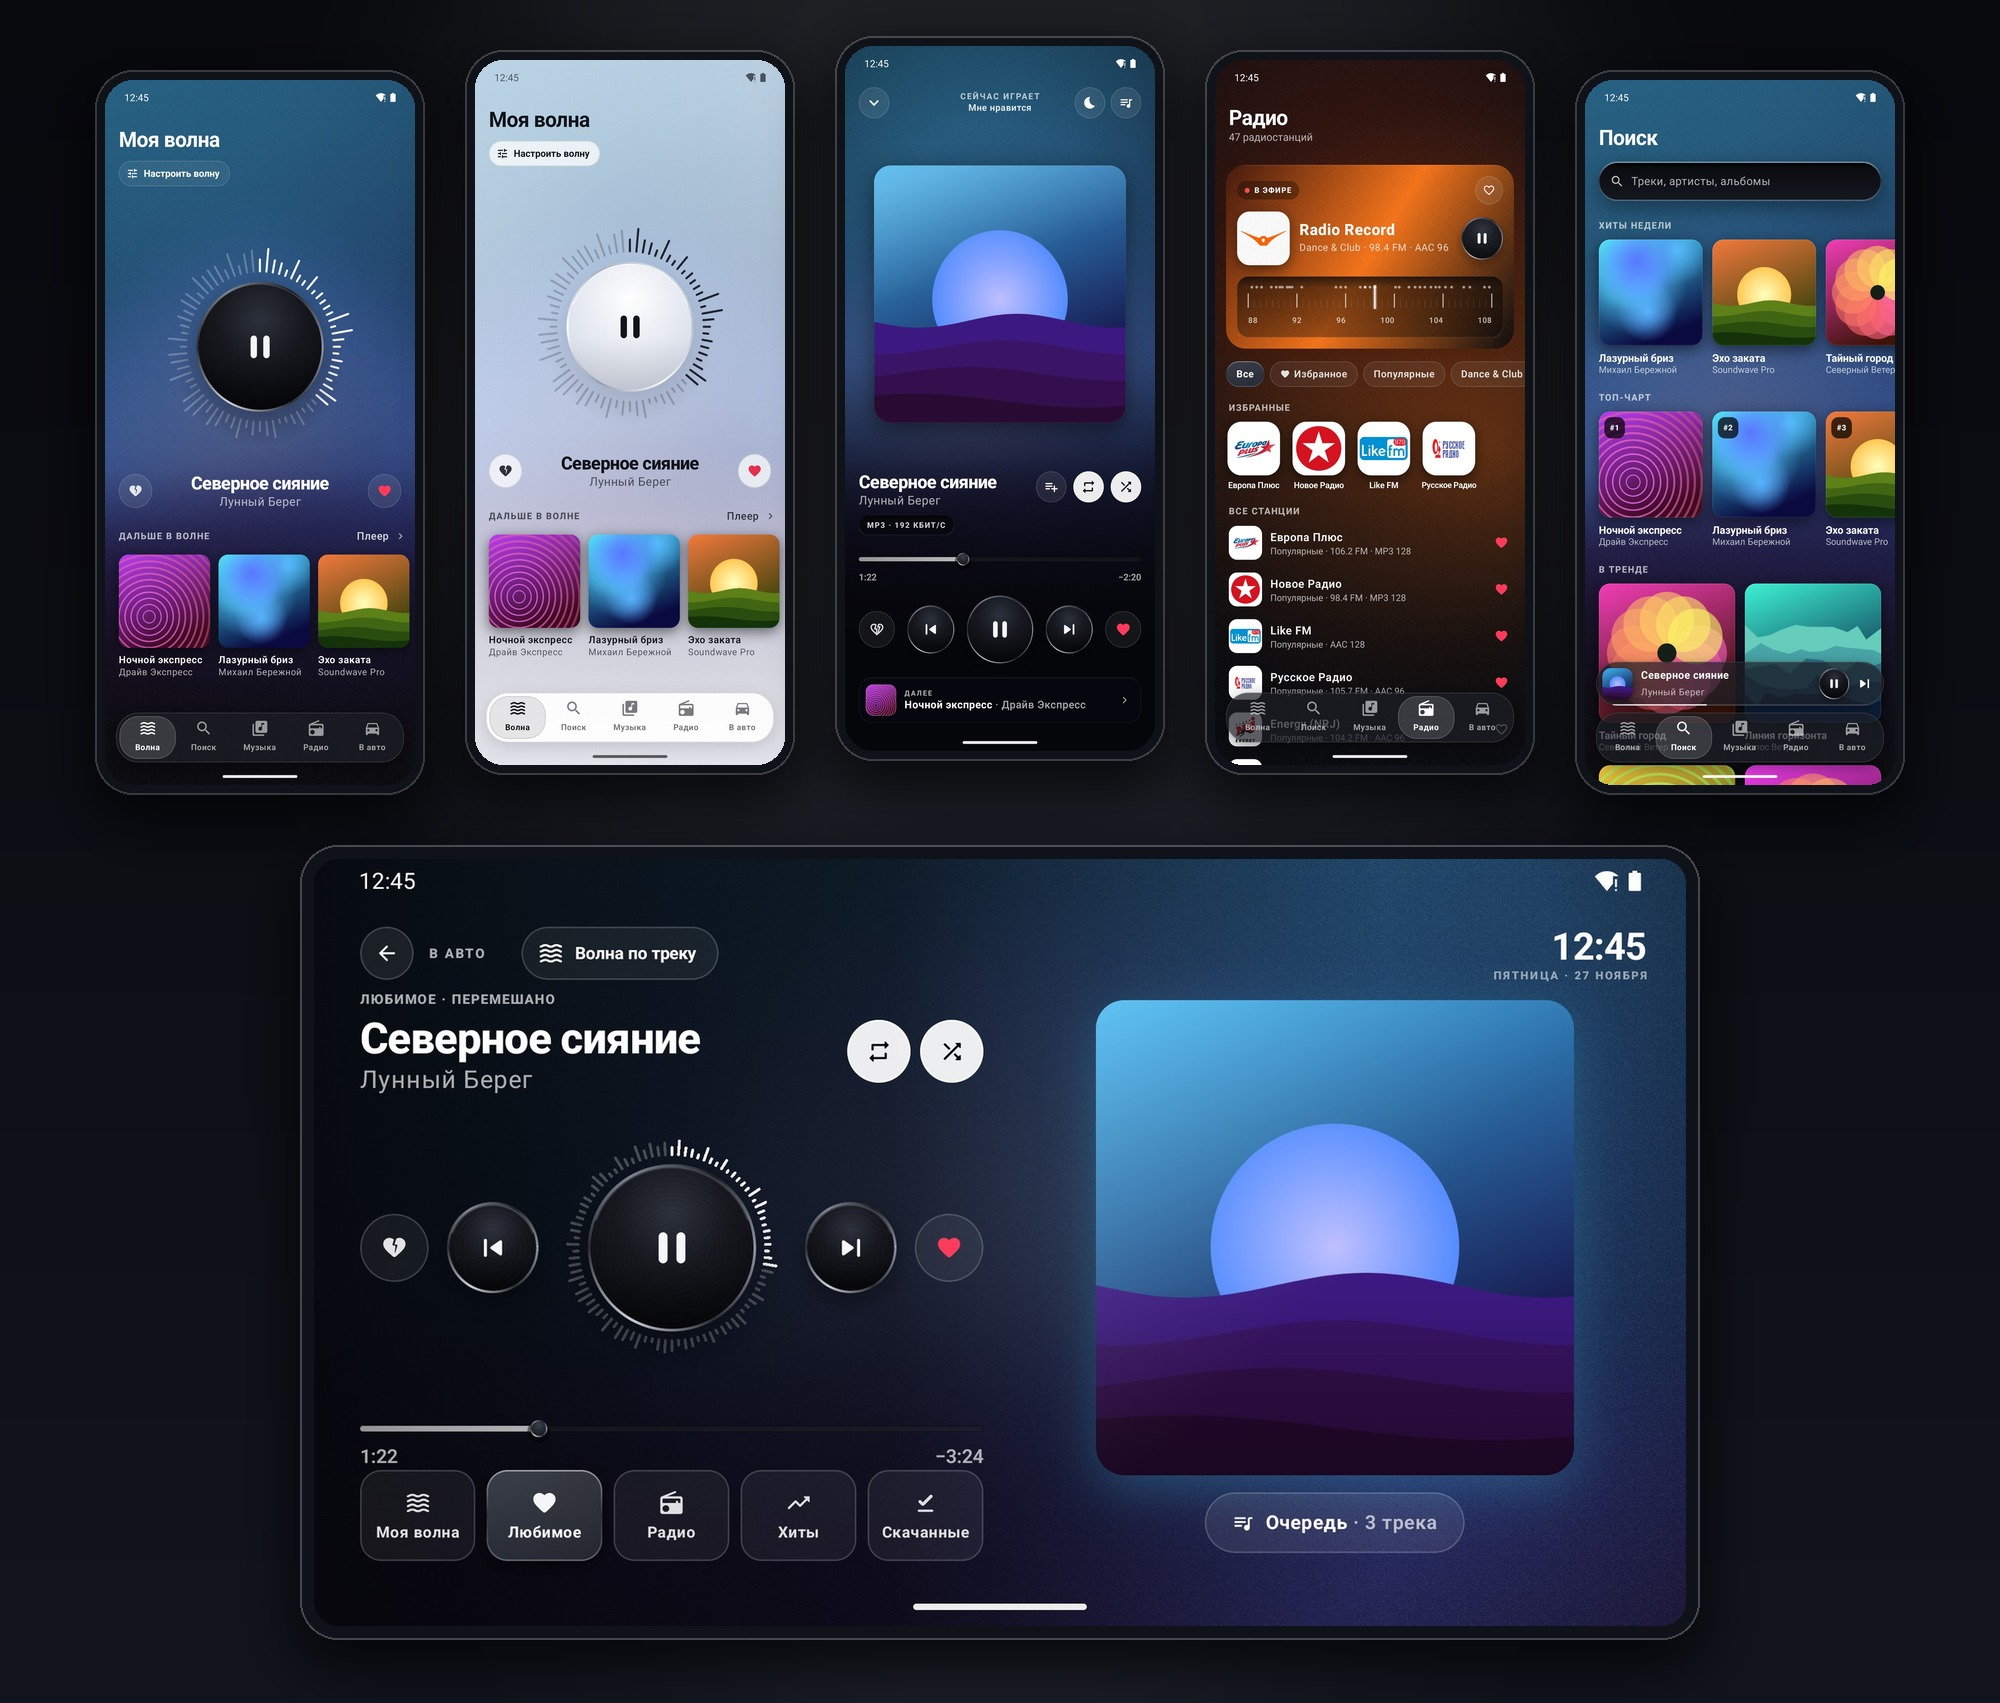
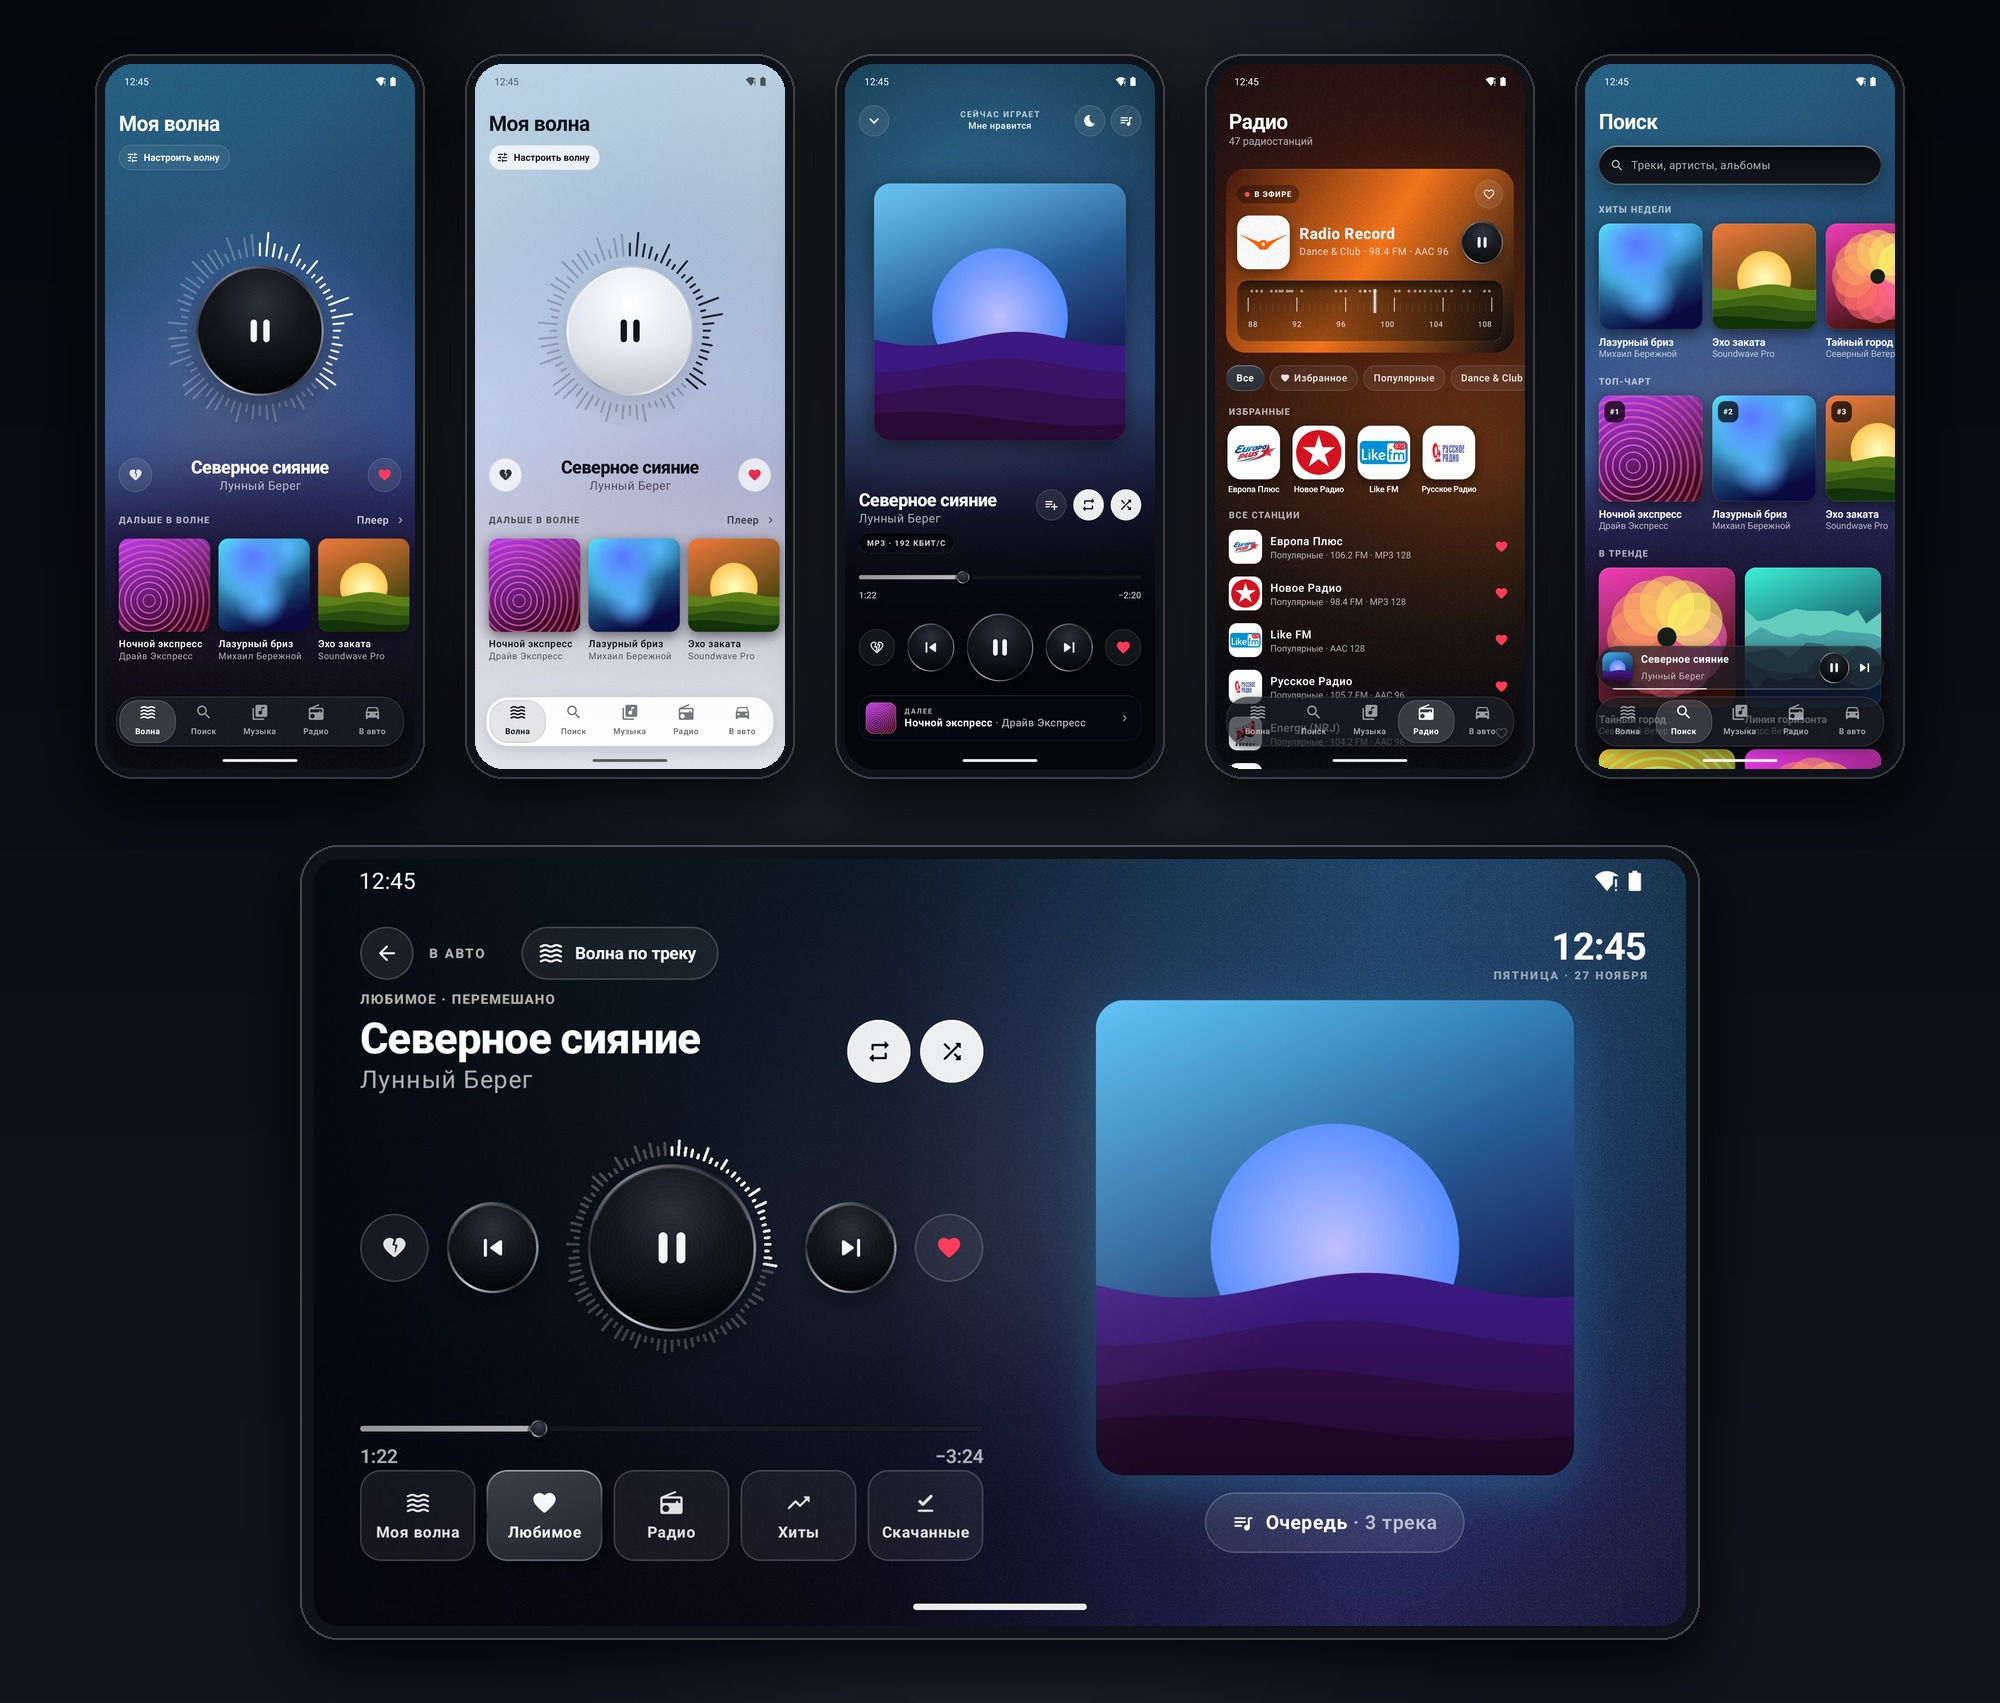
docs: align showcase phones and add Car Mode switcher

diff --git a/app/src/androidTest/java/com/korenskoy/yandexmusic/PromoScreenshots.kt b/app/src/androidTest/java/com/korenskoy/yandexmusic/PromoScreenshots.kt
@@ -36,6 +36,7 @@ import com.korenskoy.yandexmusic.data.dto.UserPlaylistDto
 import com.korenskoy.yandexmusic.data.player.PlaylistSource
 import com.korenskoy.yandexmusic.data.repository.RadioRepository
 import com.korenskoy.yandexmusic.domain.model.AppThemeMode
+import com.korenskoy.yandexmusic.domain.model.CarLayout
 import com.korenskoy.yandexmusic.domain.model.RadioCategory
 import com.korenskoy.yandexmusic.domain.model.RepeatMode
 import com.korenskoy.yandexmusic.domain.model.ThemeScheduleType
@@ -230,22 +231,30 @@ class PromoScreenshots {
      * `wm size 2560x1440; wm density 480` before running it, `wm size reset; wm density reset` after.
      */
     @Test
-    fun car() {
+    fun car() = renderCar(name = "car", darkTheme = true, layout = CarLayout.AUTO, upcomingCount = 3)
+
+    @Test
+    fun carWide() = renderCar(name = "car_wide", darkTheme = true, layout = CarLayout.THREE, upcomingCount = 6)
+
+    @Test
+    fun carDay() = renderCar(name = "car_day", darkTheme = false, layout = CarLayout.AUTO, upcomingCount = 3)
+
+    private fun renderCar(name: String, darkTheme: Boolean, layout: CarLayout, upcomingCount: Int) {
         val display = context.resources.displayMetrics
         assumeTrue("needs a landscape display", display.widthPixels > display.heightPixels)
         val noon = Calendar.getInstance().apply {
             set(Calendar.HOUR_OF_DAY, 12)
             set(Calendar.MINUTE, 45)
         }.timeInMillis
-        shoot("car", settleMs = 3_500, backdropCover = null) {
+        shoot(name, settleMs = 3_500, darkTheme = darkTheme, backdropCover = null) {
             CompositionLocalProvider(LocalCarClock provides { noon }) {
                 CarScreen(
                     currentTrack = nowPlaying, isPlaying = true, likedTrackIds = liked,
                     onPlayPauseClick = {}, onNextClick = {}, onPrevClick = {}, onToggleLike = {}, onDislikeClick = {},
                     onPlayMyVibe = {}, onPlayFavorites = {}, onPlayHits = {}, onPlayDownloaded = {}, onPlayRadio = {}, onExit = {},
                     isLandscape = true, steeringWheelOnLeft = true, progress = { 82_000L }, durationMs = 286_000,
-                    upcoming = tracks.drop(1).take(3), source = PlaylistSource.LIBRARY,
-                    shuffled = true, repeatMode = RepeatMode.ALL
+                    upcoming = tracks.drop(1).take(upcomingCount), source = PlaylistSource.LIBRARY,
+                    layout = layout, shuffled = true, repeatMode = RepeatMode.ALL
                 )
             }
         }
@@ -292,7 +301,7 @@ class PromoScreenshots {
         backdropCover: String? = nowPlaying.coverUri,
         content: @Composable BoxScope.() -> Unit
     ) {
-        if (name != "car") phoneOnly()
+        if (!name.startsWith("car")) phoneOnly()
         // Pre-generate covers and warm Coil's memory cache off the main composition pass
         // so list/grid screens (queue, library) render covers on their very first frame.
         prefetchCovers(context, tracks, listOf(CoverSize.Small, CoverSize.Medium, CoverSize.Large))

diff --git a/docs/index.html b/docs/index.html
@@ -60,6 +60,8 @@
     "https://korenskoyr.github.io/YandexMusicLite/assets/day.jpg",
     "https://korenskoyr.github.io/YandexMusicLite/assets/player.jpg",
     "https://korenskoyr.github.io/YandexMusicLite/assets/car.jpg",
+    "https://korenskoyr.github.io/YandexMusicLite/assets/car-wide.jpg",
+    "https://korenskoyr.github.io/YandexMusicLite/assets/car-day.jpg",
     "https://korenskoyr.github.io/YandexMusicLite/assets/radio.jpg",
     "https://korenskoyr.github.io/YandexMusicLite/assets/library.jpg",
     "https://korenskoyr.github.io/YandexMusicLite/assets/search.jpg"
@@ -543,9 +545,15 @@
           <div class="car-visual-wrapper">
             <div class="car-device-frame">
               <div class="car-screen-inner">
-                <picture><source type="image/webp" srcset="assets/car.webp"><img src="assets/car.jpg" alt="Интерфейс режима В авто Yandex Music Lite" class="car-screen-img" width="1600" height="900" loading="lazy"></picture>
+                <picture><source id="carScreenSource" type="image/webp" srcset="assets/car.webp"><img id="carScreenImg" src="assets/car.jpg" alt="Интерфейс режима В авто Yandex Music Lite (16:9, ночная тема)" class="car-screen-img" width="1600" height="900" loading="lazy"></picture>
                 <div class="car-screen-glare"></div>
               </div>
+            </div>
+
+            <div class="screen-tabs car-tabs" role="tablist" aria-label="Варианты экрана режима В авто">
+              <button type="button" class="tab-btn car-tab-btn active" data-webp="assets/car.webp" data-jpg="assets/car.jpg" data-alt="Интерфейс режима В авто Yandex Music Lite (16:9, ночная тема)" role="tab" aria-selected="true">16:9 Ночь</button>
+              <button type="button" class="tab-btn car-tab-btn" data-webp="assets/car-wide.webp" data-jpg="assets/car-wide.jpg" data-alt="Широкоформатный режим В авто 1920×720 с тремя колонками" role="tab" aria-selected="false">1920×720 · 3 колонки</button>
+              <button type="button" class="tab-btn car-tab-btn" data-webp="assets/car-day.webp" data-jpg="assets/car-day.jpg" data-alt="Дневная тема режима В авто Yandex Music Lite" role="tab" aria-selected="false">16:9 День</button>
             </div>
           </div>
         </div>

diff --git a/docs/js/app.js b/docs/js/app.js
@@ -52,7 +52,7 @@ document.addEventListener('DOMContentLoaded', () => {
   // 2. Interactive Phone Mockup Screenshot Switcher
   const initScreenshotSwitcher = () => {
     const screenImg = document.getElementById('phoneScreenImg');
-    const tabButtons = document.querySelectorAll('.tab-btn');
+    const tabButtons = document.querySelectorAll('.hero-visual .tab-btn');
 
     if (!screenImg || !tabButtons.length) return;
 
@@ -73,6 +73,40 @@ document.addEventListener('DOMContentLoaded', () => {
         setTimeout(() => {
           screenImg.src = targetSrc;
           screenImg.onload = () => screenImg.classList.remove('fade-out');
+        }, 150);
+      });
+    });
+  };
+
+  // 2b. Interactive Car Mode Screenshot Switcher
+  const initCarModeSwitcher = () => {
+    const carImg = document.getElementById('carScreenImg');
+    const carSource = document.getElementById('carScreenSource');
+    const carButtons = document.querySelectorAll('.car-tab-btn');
+
+    if (!carImg || !carButtons.length) return;
+
+    carButtons.forEach(button => {
+      button.addEventListener('click', () => {
+        const targetWebp = button.getAttribute('data-webp');
+        const targetJpg = button.getAttribute('data-jpg');
+        const targetAlt = button.getAttribute('data-alt');
+        if (!targetJpg || button.classList.contains('active')) return;
+
+        carButtons.forEach(btn => {
+          btn.classList.remove('active');
+          btn.setAttribute('aria-selected', 'false');
+        });
+        button.classList.add('active');
+        button.setAttribute('aria-selected', 'true');
+
+        carImg.classList.add('fade-out');
+        setTimeout(() => {
+          if (carSource && targetWebp) carSource.srcset = targetWebp;
+          carImg.src = targetJpg;
+          if (targetAlt) carImg.alt = targetAlt;
+          if (carImg.complete) carImg.classList.remove('fade-out');
+          else carImg.onload = () => carImg.classList.remove('fade-out');
         }, 150);
       });
     });
@@ -265,6 +299,7 @@ document.addEventListener('DOMContentLoaded', () => {
   initReleaseInfo();
   initCopyButtons();
   initScreenshotSwitcher();
+  initCarModeSwitcher();
   initFaqAccordion();
   initQrModal();
 });

diff --git a/docs/css/style.css b/docs/css/style.css
@@ -771,8 +771,13 @@ h1, h2, h3, h4 {
 .car-visual-wrapper {
   position: relative;
   display: flex;
+  flex-direction: column;
   justify-content: center;
   align-items: center;
+}
+
+.car-tabs {
+  margin-top: 20px;
 }
 
 .car-device-frame {
@@ -812,6 +817,11 @@ h1, h2, h3, h4 {
   height: auto;
   display: block;
   object-fit: cover;
+  transition: opacity 0.28s ease;
+}
+
+.car-screen-img.fade-out {
+  opacity: 0;
 }
 
 .car-screen-glare {

diff --git a/README.md b/README.md
@@ -52,7 +52,11 @@
 
 | [📻 FM Радио](docs/assets/radio.jpg) | [⚙ Настройки](docs/assets/settings.jpg) | [🚗 Режим «В авто»](docs/assets/car.jpg) |
 | :---: | :---: | :---: |
-| <a href="docs/assets/radio.jpg"><img src="docs/assets/radio.jpg" width="220" alt="FM Радио" /></a> | <a href="docs/assets/settings.jpg"><img src="docs/assets/settings.jpg" width="220" alt="Настройки" /></a> | <a href="docs/assets/car.jpg"><img src="docs/assets/car.jpg" width="380" alt="В авто" /></a> |
+| <a href="docs/assets/radio.jpg"><img src="docs/assets/radio.jpg" width="220" alt="FM Радио" /></a> | <a href="docs/assets/settings.jpg"><img src="docs/assets/settings.jpg" width="220" alt="Настройки" /></a> | <a href="docs/assets/car.jpg"><img src="docs/assets/car.jpg" width="320" alt="В авто" /></a> |
+
+| [☀ В авто: дневная тема](docs/assets/car-day.jpg) | [🚘 В авто: 1920×720 (3 колонки)](docs/assets/car-wide.jpg) |
+| :---: | :---: |
+| <a href="docs/assets/car-day.jpg"><img src="docs/assets/car-day.jpg" width="320" alt="В авто: дневная тема" /></a> | <a href="docs/assets/car-wide.jpg"><img src="docs/assets/car-wide.jpg" width="460" alt="Широкоформатный режим В авто 1920×720 (3 колонки)" /></a> |
 
 Треки и обложки на скриншотах придуманы для примера.
 
